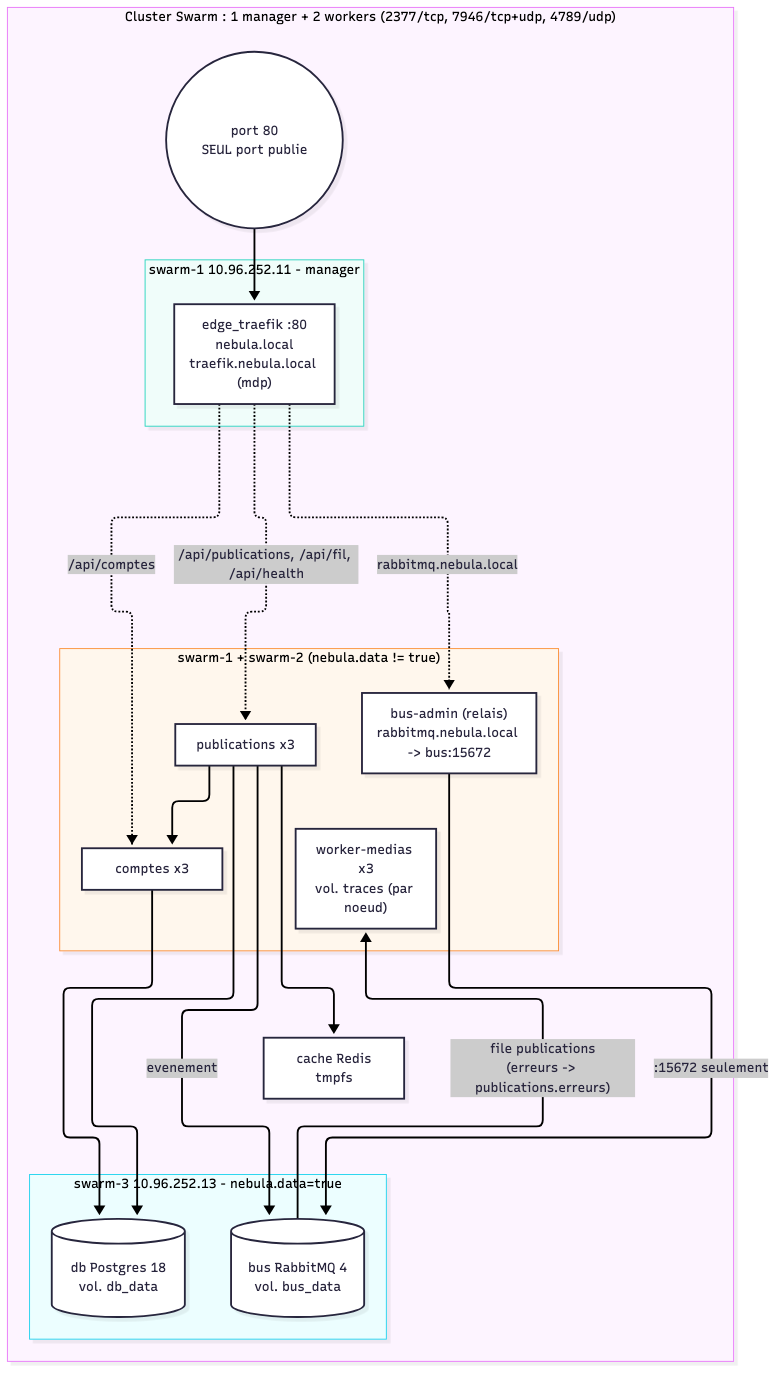
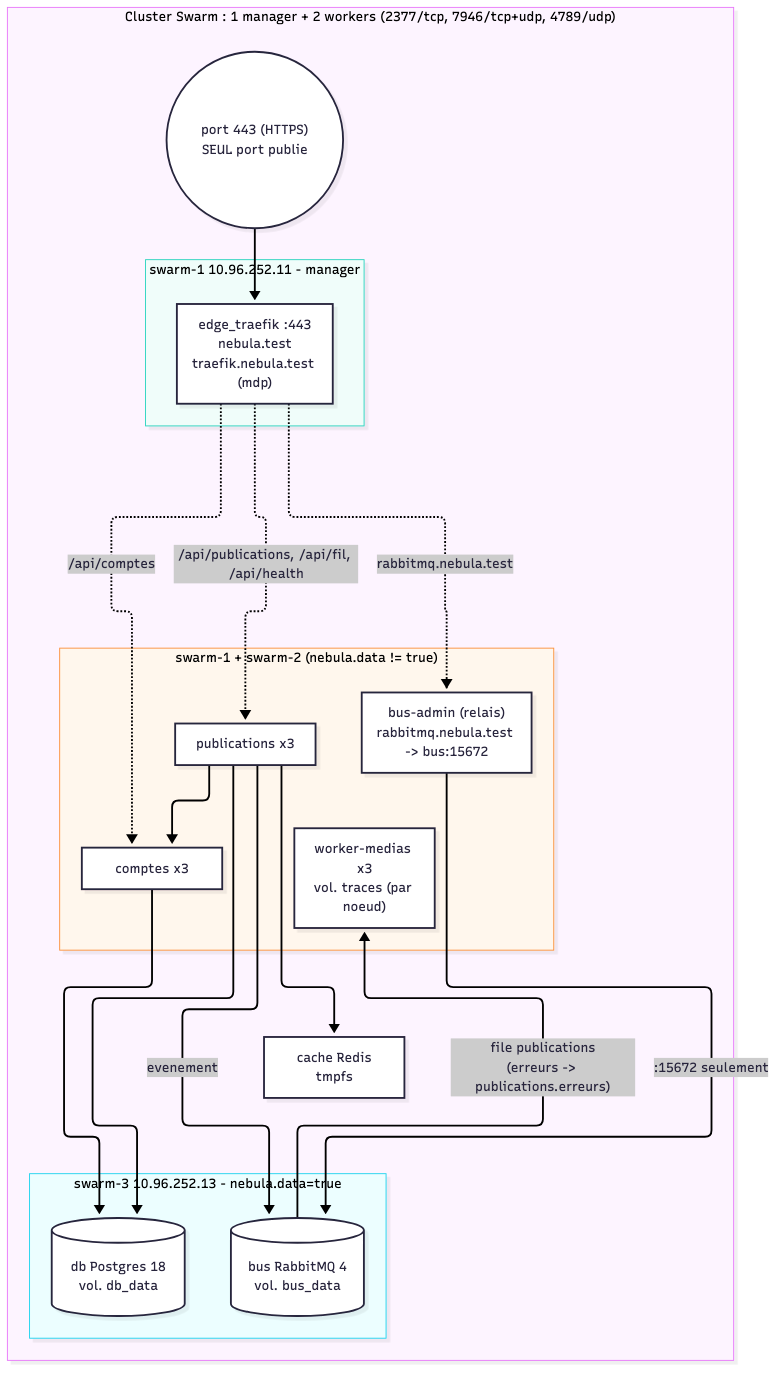
docs: exploitation depuis le poste (contextes Docker), HTTPS nebula.test

diff --git a/docs/exploitation.md b/docs/exploitation.md
@@ -1,52 +1,63 @@
-# Exploitation : quel script, ou, quand
+# Exploitation : quel script, quand
 
-Le depot est clone dans `~/nebula` sur swarm-1 (deploiement), swarm-3
-(sauvegarde) et registry (construction des images). Tout se fait sur ces VM ;
-seules la creation des VM et le rallumage d'un cluster eteint demandent un
-acces exterieur (Proxmox).
+Tout se lance depuis le poste admin, a la racine du depot, NetBird connecte.
+Rien n'est installe ni stocke sur les serveurs (ni depot, ni identifiants) :
+le poste pilote le cluster par des contextes Docker SSH.
+
+| Contexte Docker | Cible | Usage |
+|---|---|---|
+| `nebula` | swarm-1 (manager) | deployer, observer, mettre a l'echelle |
+| `nebula-data` | swarm-3 (noeud de donnees) | sauvegarde, restauration |
+| `nebula-registry` | VM registry | construire les images (amd64) et les pousser |
+
+Acces navigateur (HTTPS, certificat mkcert) : https://nebula.test,
+https://traefik.nebula.test/dashboard/ (utilisateur `admin`),
+https://rabbitmq.nebula.test (utilisateur `nebula`).
 
 ## Situations
 
-| Situation | Ou | Commande | Ce qui se passe |
-|---|---|---|---|
-| Nouvelle version | registry puis swarm-1 | `cd ~/nebula && git pull && ./scripts/build-push.sh v3` puis, sur swarm-1, `cd ~/nebula && git pull && ./scripts/deploy.sh v3` | tags `v3` et `v3-<sha>` ; mise a jour progressive start-first, sans coupure |
-| Version defectueuse | - | rien | sonde en echec : retour arriere automatique (~40 s) |
-| Retour arriere manuel | swarm-1 | `./scripts/deploy.sh v2` ou `docker service rollback nebula_<service>` | |
-| Fabriquer une version cassee (sc. 8) | registry | `./scripts/build-broken.sh comptes v2` puis sur swarm-1 `docker service update --image 10.96.252.20:5000/nebula-comptes:v2-casse nebula_comptes` | retour arriere automatique |
-| Un service tombe / unhealthy | - | rien | Swarm le relance. Diagnostic sur swarm-1 : `docker service ps --no-trunc nebula_<s>`, `docker service logs nebula_<s>` |
-| Le bus redemarre | - | rien | publications et worker deviennent unhealthy (plus de connexion 5672) et sont remplaces (~40 s) |
-| Un noeud tombe | swarm-1 (au retour du noeud) | `docker service update --force nebula_comptes` (idem publications, worker-medias) | pendant la panne, les services sans etat repartent sur l'autre noeud ; db et bus attendent swarm-3. La commande reequilibre. |
-| Arret complet | chaque VM, dans l'ordre swarm-3, swarm-2, swarm-1 | `sudo poweroff` | workers d'abord, manager en dernier |
-| Rallumage complet | interface Proxmox | demarrer swarm-1, swarm-2, swarm-3 | le cluster se reforme seul (~3 min). Depuis un poste : `./cluster/power.py start` |
-| Sauvegarde | swarm-3 | `cd ~/nebula && ./scripts/backup-db.sh` | dump dans `~/nebula/backups/` |
-| Donnees perdues ou corrompues | swarm-3 | `./scripts/restore-db.sh backups/<fichier>.dump` | restauration en une transaction |
-| Messages en erreur | navigateur | http://rabbitmq.nebula.test, file `publications.erreurs` | messages rejetes par le worker |
-| Tableau de bord Traefik | navigateur | http://traefik.nebula.test/dashboard/ | utilisateur `admin` |
-| Montee en charge | swarm-1 | `docker service scale nebula_publications=6` | repartition visible avec `./scripts/charge.sh` ou `/api/health` (champ host) |
-| Mise a jour sans coupure (sc. 7) | registry | `./scripts/charge.sh 180` pendant la mise a jour | bilan des codes HTTP : tout doit etre 200 |
-| Ajouter un service | swarm-1 | copier `swarm/stack.exemple-service.yml`, puis `docker stack deploy -c swarm/stack.<nom>.yml <nom>` | aucun autre fichier modifie |
-| Etat en une commande | swarm-1 | `docker stack ps nebula -f desired-state=running` | service, image et version, noeud, etat |
-| Verifier la chaine | registry | `./scripts/smoke.sh nebula.test` | |
+| Situation | Commande | Ce qui se passe |
+|---|---|---|
+| Nouvelle version | `./scripts/build-push.sh v4` puis `./scripts/deploy.sh v4` | tags `v4` et `v4-<sha>` ; mise a jour progressive start-first, sans coupure |
+| Version defectueuse | rien | sonde en echec : retour arriere automatique (~40 s) |
+| Retour arriere manuel | `./scripts/deploy.sh v3` ou `docker --context nebula service rollback nebula_<service>` | |
+| Fabriquer une version cassee (sc. 8) | `./scripts/build-broken.sh comptes v3` puis `docker --context nebula service update --with-registry-auth --image 10.96.252.20:5000/nebula-comptes:v3-casse nebula_comptes` | echec constate puis retour arriere automatique |
+| Un service tombe / unhealthy | rien | Swarm le relance. Diagnostic : `docker --context nebula service ps --no-trunc nebula_<s>`, `docker --context nebula service logs nebula_<s>` |
+| Le bus redemarre | rien | publications et worker deviennent unhealthy (plus de connexion 5672) et sont remplaces (~40 s) |
+| Un noeud tombe | au retour : `docker --context nebula service update --force nebula_comptes` (idem publications, worker-medias) | pendant la panne, les services sans etat repartent sur l'autre noeud ; db et bus attendent swarm-3. La commande reequilibre. |
+| Arret / redemarrage complet | `./cluster/power.py stop` puis `./cluster/power.py start` (ou boutons de l'interface Proxmox) | arret workers puis manager ; au rallumage le cluster se reforme seul (~3 min) |
+| Sauvegarde | `./scripts/backup-db.sh` | dump rapatrie sur le poste dans `backups/` (ignore par git) |
+| Donnees perdues ou corrompues | `./scripts/restore-db.sh backups/<fichier>.dump` | restauration en une transaction |
+| Messages en erreur | https://rabbitmq.nebula.test, file `publications.erreurs` | messages rejetes par le worker |
+| Montee en charge | `docker --context nebula service scale nebula_publications=6` | repartition visible avec `./scripts/smoke.sh` (champ host) |
+| Mise a jour sans coupure (sc. 7) | `./scripts/charge.sh 180` pendant la mise a jour | bilan des codes HTTP : tout doit etre 200 |
+| Ajouter un service | copier `swarm/stack.exemple-service.yml`, puis `docker --context nebula stack deploy -c swarm/stack.<nom>.yml <nom>` | aucun autre fichier modifie |
+| Etat en une commande | `docker --context nebula stack ps nebula -f desired-state=running` | service, image et version, noeud, etat |
+| Verifier la chaine | `./scripts/smoke.sh` | |
 
-## Tout recreer depuis zero (poste exterieur)
+`charge.sh` mesure aussi le reseau entre le poste et le cluster : si NetBird
+coupe, les echecs (code 000) ne viennent pas du cluster. Pour une mesure
+propre, le lancer depuis la VM registry : `ssh registry 'bash -s 180' < scripts/charge.sh`.
 
-Depuis un poste avec acces Proxmox, SSH vers les VM (rebond par le routeur)
-et `gh` connecte au depot :
+## Tout recreer depuis zero
 
 ```
 export PVE_TOKEN='PVEAPIToken=...'     # jamais commite
 ./cluster/create-vms.py                # 3 noeuds + registry
-./cluster/bootstrap.sh                 # Docker, registry, Swarm, labels, secrets, routeur, depot sur les VM
+./cluster/bootstrap.sh                 # Docker, registry, Swarm, labels, secrets, HTTPS, routeur, contextes
+./scripts/build-push.sh v3
+./scripts/deploy.sh v3
 ```
-puis `./scripts/build-push.sh v2` sur registry et `./scripts/deploy.sh v2` sur swarm-1.
 
-Identifiants generes par `bootstrap.sh`, hors depot, sur le poste :
-`~/.config/nebula/admin-password` (Traefik), `~/.config/nebula/registry-password`.
-Le login RabbitMQ est `nebula` avec le mot de passe du secret `nebula_bus_password`.
-
-Acces navigateur : `/etc/hosts` avec
+Prerequis du poste : NetBird, hotes SSH `lab-router`, `swarm-1..3`, `registry`
+dans `~/.ssh/config` (rebond par le routeur), Docker CLI, `mkcert -install`,
+et dans `/etc/hosts` :
 `10.210.0.33 nebula.test traefik.nebula.test rabbitmq.nebula.test`
-(le routeur redirige son port 80 vers le cluster).
+(le routeur redirige son port 443 vers le cluster).
+
+Identifiants generes par `bootstrap.sh`, hors depot, dans `~/.config/nebula/` :
+`admin-password` (Traefik), `registry-password`, `tls/` (certificat).
+Le login RabbitMQ est `nebula` avec le mot de passe du secret `nebula_bus_password`.
 
 ## Scenarios verifies (5 octobre 2026)
 
@@ -54,11 +65,11 @@ Acces navigateur : `/etc/hosts` avec
 |---|---|
 | 1 | 3 noeuds Ready/Active, swarm-1 Leader |
 | 2 | arret un par un puis rallumage : cluster reforme en ~3 min, donnees et file d'erreurs intactes |
-| 3 | `stack rm` puis `deploy.sh v2` : tout revenu en 42 s, donnees intactes |
-| 4 | depuis le LAN, seul le port 80 repond (5432, 5672, 15672, 6379, 8080, 8088 fermes) |
+| 3 | `stack rm` puis `deploy.sh` : tout revenu en 42 s, donnees intactes |
+| 4 | depuis le LAN, seul le port 443 repond (80, 5432, 5672, 15672, 6379, 8080, 8088 fermes) |
 | 5 | db et bus sur swarm-3 (label `nebula.data`), sans etat sur swarm-1/2 |
 | 6 | 6 replicas : 60 requetes = 10 par instance |
-| 7 | mise a jour sous charge : 0 erreur sur 9 386 requetes |
+| 7 | mise a jour sous charge en HTTPS : 0 erreur sur 3 796 requetes |
 | 8 | version defectueuse : echec detecte en 10 s, retour arriere en 40 s, 0 requete perdue |
 | 9 | db et bus tues : relances en 15 s, donnees intactes ; sauvegarde puis restauration testee |
 | 10 | 8e service deploye et route en 29 s |

diff --git a/docs/schema-reseau.md b/docs/schema-reseau.md
@@ -8,10 +8,10 @@ Pointilles : reseau `edge_public`. Traits pleins : reseau `nebula_internal` (`in
 flowchart TB
   subgraph swarm["Cluster Swarm : 1 manager + 2 workers (2377/tcp, 7946/tcp+udp, 4789/udp)"]
     direction TB
-    ingress(("port 80<br/>SEUL port publie"))
+    ingress(("port 443 (HTTPS)<br/>SEUL port publie"))
 
     subgraph s1["swarm-1 10.96.252.11 - manager"]
-      traefik["edge_traefik :80<br/>nebula.test<br/>traefik.nebula.test (mdp)"]
+      traefik["edge_traefik :443<br/>nebula.test<br/>traefik.nebula.test (mdp)"]
     end
     subgraph s12["swarm-1 + swarm-2 (nebula.data != true)"]
       comptes["comptes x3"]
@@ -44,4 +44,4 @@ flowchart TB
 |---|---|---|
 | `edge_public` (overlay) | traefik, comptes, publications, bus-admin | Traefik uniquement |
 | `nebula_internal` (overlay, `internal: true`) | comptes, publications, worker, db, bus, cache, bus-admin | services internes ; aucune sortie Internet |
-| Port publie | 80 (Traefik, routing mesh) | sur les 3 noeuds |
+| Port publie | 443 HTTPS (Traefik, routing mesh) | sur les 3 noeuds |
